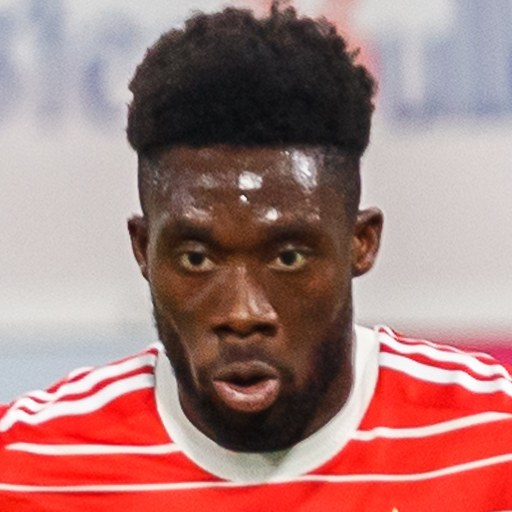
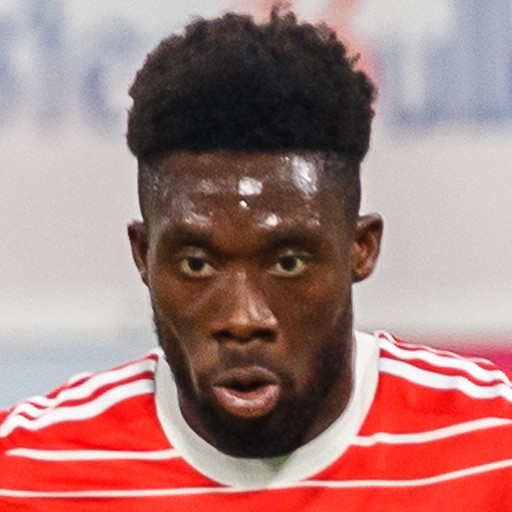
fix: redirect loop, Davies portrait, watchlist section, dev port 3000

diff --git a/src/components/WatchlistSection.tsx b/src/components/WatchlistSection.tsx
@@ -1,7 +1,6 @@
 "use client";
 
 import { useState } from "react";
-import Image from "next/image";
 import { motion } from "framer-motion";
 import { Shield, Sparkles, User, type LucideIcon } from "lucide-react";
 import { DEFENDERS_TO_WATCH, PLAYMAKERS_TO_WATCH } from "@/lib/watchlist";
@@ -20,13 +19,15 @@ function PlayerAvatar({ player }: { player: WatchPlayer }) {
   }
 
   return (
-    <div className="relative w-16 h-16 rounded-xl overflow-hidden shrink-0 border border-white/10">
-      <Image
+    <div className="relative w-16 h-16 rounded-xl overflow-hidden shrink-0 border border-white/10 bg-white/5">
+      {/* eslint-disable-next-line @next/next/no-img-element */}
+      <img
         src={player.image}
         alt={`${player.name} portrait`}
-        fill
-        className="object-cover object-top"
-        sizes="64px"
+        width={64}
+        height={64}
+        className="w-full h-full object-cover object-top"
+        loading="lazy"
         onError={() => setImgError(true)}
       />
     </div>

diff --git a/next.config.ts b/next.config.ts
@@ -8,16 +8,6 @@ const nextConfig: NextConfig = {
   turbopack: {
     root: projectRoot,
   },
-  async redirects() {
-    return [
-      {
-        source: "/:path*",
-        has: [{ type: "host", value: "www.vamos26.com" }],
-        destination: "https://vamos26.com/:path*",
-        permanent: true,
-      },
-    ];
-  },
   images: {
     remotePatterns: [
       {

diff --git a/src/app/page.tsx b/src/app/page.tsx
@@ -9,6 +9,7 @@ import FriendlyScores from "@/components/FriendlyScores";
 import AppBottomNav from "@/components/AppBottomNav";
 import StadiumsSection from "@/components/StadiumsSection";
 import StatsLeaders from "@/components/StatsLeaders";
+import WatchlistSection from "@/components/WatchlistSection";
 import DonateSection from "@/components/DonateSection";
 import DropshipSection from "@/components/DropshipSection";
 import UpcomingMatches from "@/components/UpcomingMatches";
@@ -25,6 +26,7 @@ const SECTIONS = [
   "friendlies",
   "stadiums",
   "stats",
+  "watchlist",
   "donate",
   "shop",
   "fixtures",
@@ -46,6 +48,7 @@ export default function Home() {
       <FriendlyScores />
       <StadiumsSection />
       <StatsLeaders />
+      <WatchlistSection />
       <DonateSection />
       <DropshipSection />
       <UpcomingMatches />

diff --git a/src/lib/watchlist.ts b/src/lib/watchlist.ts
@@ -82,7 +82,7 @@ export const DEFENDERS_TO_WATCH: WatchPlayer[] = [
     tagline: "African-Canadian pace merchant — flies down the left",
     gradient: "from-red-600 to-white",
     stat: "36.5 km/h top speed",
-    image: "/images/players/alphonso-davies.jpg",
+    image: "/images/players/alphonso-davies.jpg?v=3",
   },
 ];
 

diff --git a/src/components/Navbar.tsx b/src/components/Navbar.tsx
@@ -9,6 +9,7 @@ const NAV_ITEMS = [
   { id: "live", label: "Live" },
   { id: "friendlies", label: "Friendlies" },
   { id: "stats", label: "Stats" },
+  { id: "watchlist", label: "Watch" },
   { id: "donate", label: "Donate" },
   { id: "fixtures", label: "Fixtures" },
   { id: "groups", label: "Groups" },

diff --git a/src/components/SectionQuickNav.tsx b/src/components/SectionQuickNav.tsx
@@ -6,6 +6,7 @@ const QUICK_LINKS = [
   { id: "live", label: "Live" },
   { id: "friendlies", label: "Friendlies" },
   { id: "stats", label: "Stats" },
+  { id: "watchlist", label: "Watch" },
   { id: "donate", label: "Donate" },
   { id: "discover", label: "NYC" },
 ] as const;

diff --git a/scripts/fetch-player-portraits.py b/scripts/fetch-player-portraits.py
@@ -36,7 +36,8 @@ PLAYERS: dict[str, str] = {
     "alisson-becker": "Alisson_Becker",
     "mike-maignan": "Mike_Maignan",
     "matt-turner": "Matt_Turner_(soccer)",
-    "alphonso-davies": "Alphonso_Davies",
+    # Pin to Commons file — unmistakable African-Canadian portrait
+    "alphonso-davies": "commons:File:Alphonso Davies in 2022.jpg",
     "antonio-rudiger": "Antonio_Rüdiger",
     "cristian-romero": "Cristian_Romero",
     "marquinhos": "Marquinhos",
@@ -64,6 +65,24 @@ def curl_get(url: str, retries: int = 4) -> bytes:
 
 
 def wiki_thumb(title: str) -> str | None:
+    if title.startswith("commons:"):
+        file_title = title.removeprefix("commons:")
+        params = urllib.parse.urlencode(
+            {
+                "action": "query",
+                "titles": file_title,
+                "prop": "imageinfo",
+                "iiprop": "url",
+                "iiurlwidth": 900,
+                "format": "json",
+            }
+        )
+        data = json.loads(curl_get(f"https://commons.wikimedia.org/w/api.php?{params}"))
+        for page in data.get("query", {}).get("pages", {}).values():
+            info = page.get("imageinfo", [{}])[0]
+            return info.get("thumburl") or info.get("url")
+        return None
+
     params = urllib.parse.urlencode(
         {
             "action": "query",